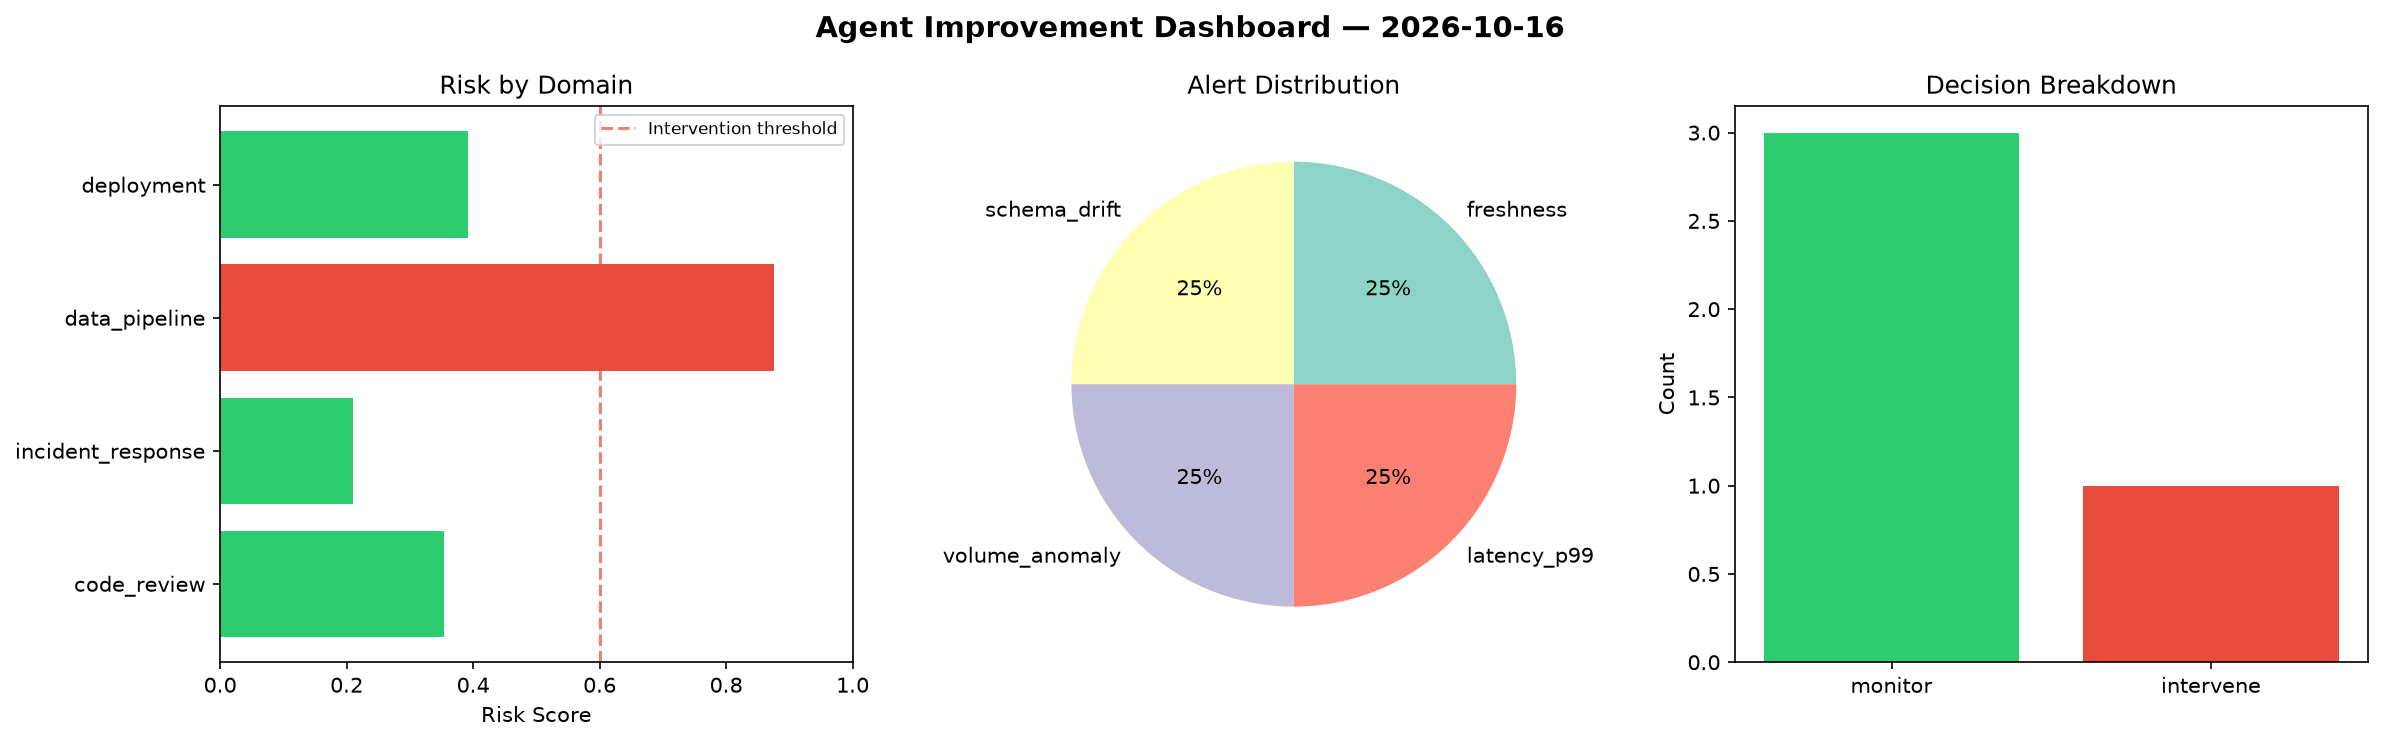
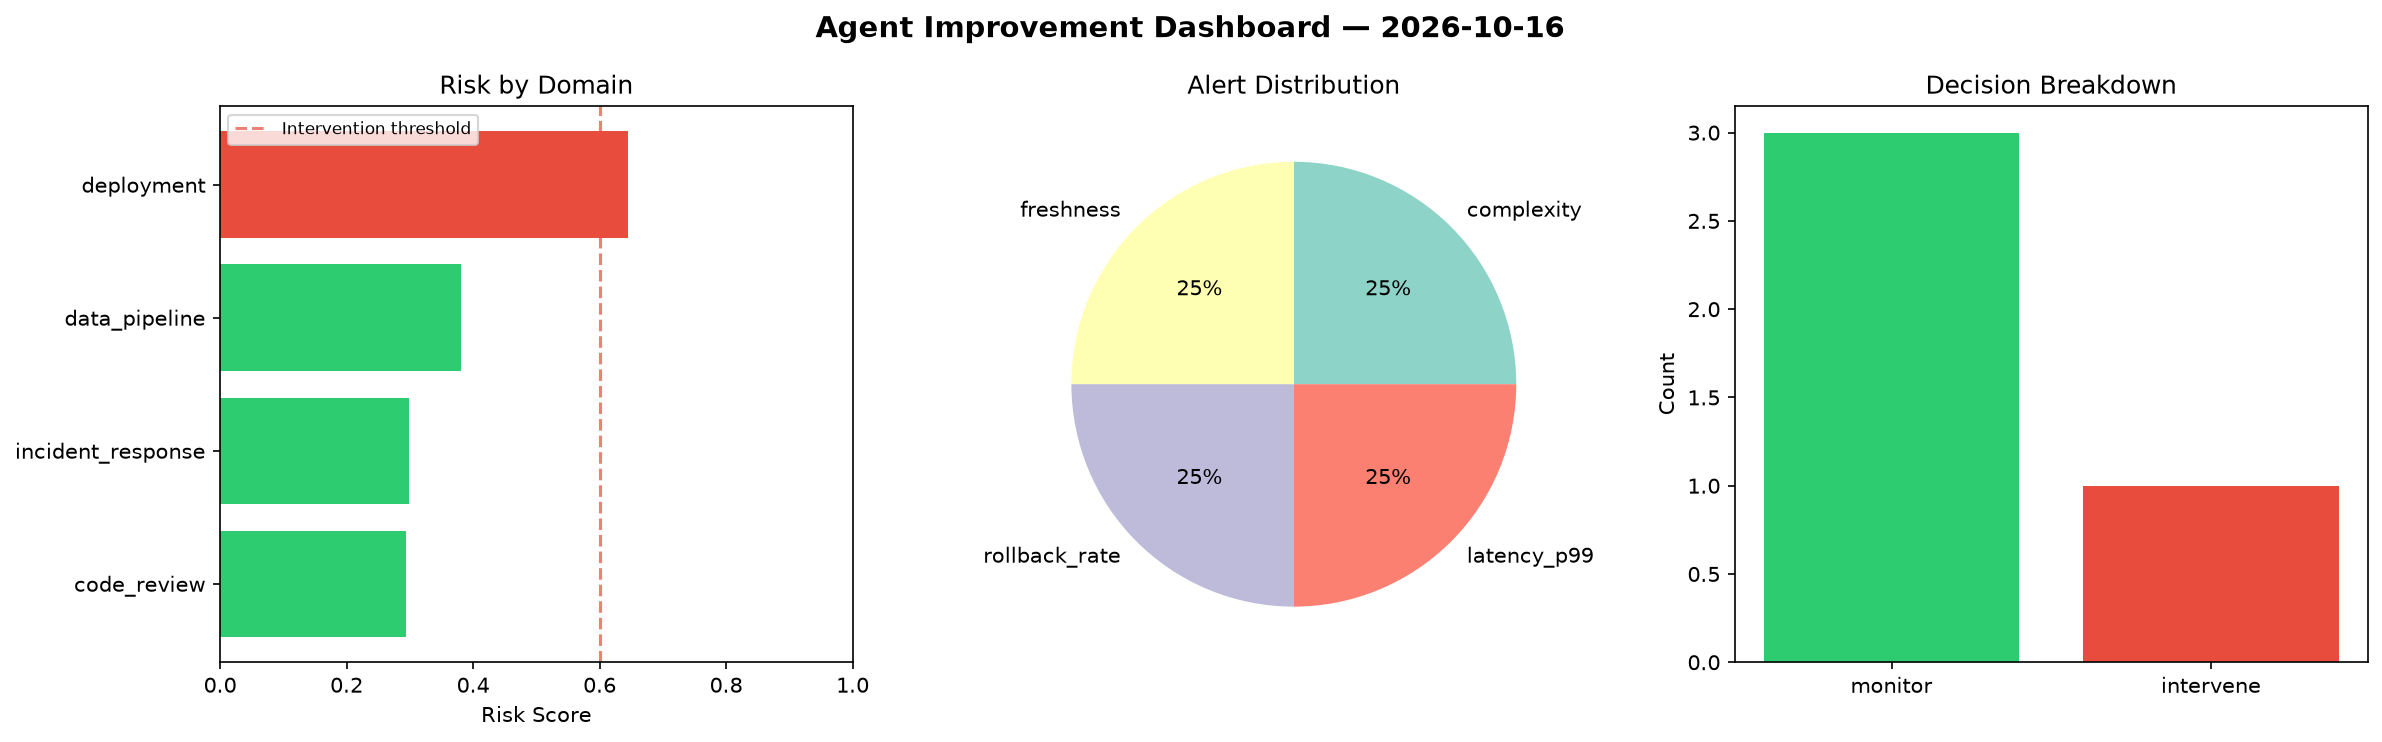
agent-improvement: daily cycle 2026-10-16T22:49

diff --git a/logs/2026-10-16.md b/logs/2026-10-16.md
@@ -1,6 +1,6 @@
 # Agent Improvement Report — 2026-10-16
 
-**Cycle ID:** `83fc1e8d` | **Avg Risk:** 0.4582 | **Interventions:** 1/4
+**Cycle ID:** `e67a1990` | **Avg Risk:** 0.4043 | **Interventions:** 1/4
 
 ![Dashboard](2026-10-16_dashboard.png)
 
@@ -10,18 +10,18 @@
 
 | Domain | Risk Score | Decision | Alerts |
 |--------|-----------|----------|--------|
-| code_review | 0.3545 | monitor | none |
-| incident_response | 0.2097 | monitor | none |
-| data_pipeline | 0.876 | intervene | freshness, schema_drift, volume_anomaly |
-| deployment | 0.3924 | monitor | latency_p99 |
+| code_review | 0.2932 | monitor | complexity |
+| incident_response | 0.2987 | monitor | none |
+| data_pipeline | 0.3805 | monitor | freshness |
+| deployment | 0.6449 | intervene | rollback_rate, latency_p99 |
 
 ## Delta vs Yesterday
 
 | Domain | Today | Yesterday | Change |
 |--------|-------|-----------|--------|
-| code_review | 0.3545 | 0.8232 | 📉 -56.9% |
-| incident_response | 0.2097 | 0.2885 | 📉 -27.3% |
-| data_pipeline | 0.876 | 0.4861 | 📈 80.2% |
-| deployment | 0.3924 | 0.7213 | 📉 -45.6% |
+| code_review | 0.2932 | 0.8232 | 📉 -64.4% |
+| incident_response | 0.2987 | 0.2885 | 📈 3.5% |
+| data_pipeline | 0.3805 | 0.4861 | 📉 -21.7% |
+| deployment | 0.6449 | 0.7213 | 📉 -10.6% |
 
 **Refinement:** `{'adjustment': 'tighten_thresholds', 'trend': 'degrading', 'window': 4}`
